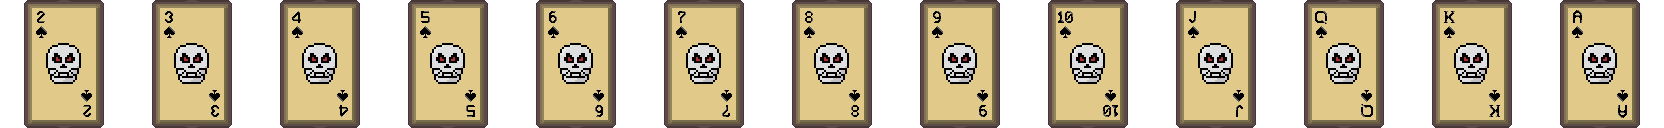
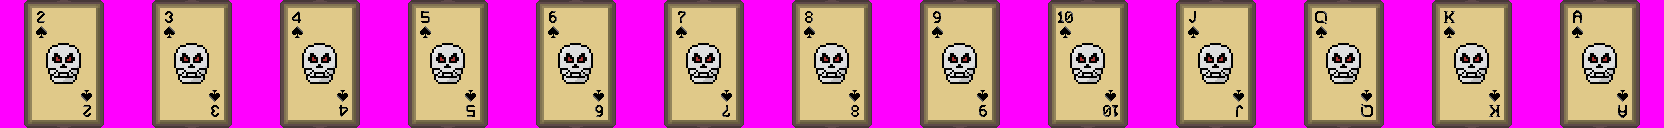
dodano zmiany

diff --git a/src/states/game_state.py b/src/states/game_state.py
@@ -1,7 +1,6 @@
 import pygame
 import src.config as c
 from src.classes.deck import Deck
-from src.classes.card import Card
 
 class GameState:
     def __init__(self, game):
@@ -10,52 +9,62 @@ class GameState:
         self.player_hp = 20
         self.deck = Deck(self.game.assets)
         self.deck.shuffle()
-        self.run_count = 2
-        self._can_run()
+        self.can_run = True
+        self.deck_rect = pygame.Rect(c.deck_pos_x, c.pos_y, int(c.CARD_WIDTH * c.SCALE), int(c.CARD_HEIGHT * c.SCALE))
+        
         self.room_cards = []
-        self.room_cards_slots = [(c.pos_x + c.CARD_WIDTH, c.pos_y), (c.pos_x + c.gap + c.CARD_WIDTH, c.pos_y), (c.pos_x + (c.gap * 2) + c.CARD_WIDTH, c.pos_y), (c.pos_x + (c.gap * 3) + c.CARD_WIDTH, c.pos_y)]
+        self.room_cards_slots = [(c.pos_x, c.pos_y), (c.pos_x + c.gap, c.pos_y), (c.pos_x + (c.gap * 2), c.pos_y), (c.pos_x + (c.gap * 3), c.pos_y)]
         self._refill_room()
 
     def _refill_room(self):
+        self.can_run = True
 
         cards_needed = 4 - len(self.room_cards)
-        
+
+        if cards_needed > 0 and self.deck.hml() > 0:
+            self.draw_anim_timer = 1 * c.FPS
+
         for i in range(cards_needed):
             if self.deck.hml() > 0:
                 new_card = self.deck.draw() 
                 
                 slot_index = len(self.room_cards) 
                 target_x, target_y = self.room_cards_slots[slot_index]
-                
-                new_card.rect = pygame.Rect(target_x, target_y, c.CARD_WIDTH, c.CARD_HEIGHT)
+
+                start_x = self.deck_rect.x
+                start_y = self.deck_rect.y
+
+                new_card.rect = pygame.Rect(start_x, start_y, int(c.CARD_WIDTH * c.SCALE), int(c.CARD_HEIGHT * c.SCALE))
+
+                new_card.move_to(target_x, target_y)
                 
                 self.room_cards.append(new_card)
             else:
                 break
 
-    def _can_run(self):
-        if self.run_count >= 2:
-            self.can_run = True
-        else:
-            self.can_run = False
-        if self.deck.draw():
-            self.run_count += 1
         
     def handle_events(self, event):
         if event.type == pygame.KEYDOWN and not self.game.game_over:
             if event.key == pygame.K_ESCAPE:
                 self.game.current_state = "MENU"
             if event.key == pygame.K_0:                                                                     #loophole
-                self.run_count += 1    
+                self.can_run = True 
         if event.type == pygame.MOUSEBUTTONDOWN:
             if self.run_btn_rect.collidepoint(self.mouse_pos) and self.can_run:
+                self.deck.run(self.room_cards)
+                self._refill_room()
                 self.can_run = False
-                self.run_count = 0
             
 
     def update(self):
         self.mouse_pos = self.game.mouse_pos
-        self._can_run()
+
+        if self.draw_anim_timer > 0:
+            self.draw_anim_timer -= 1
+
+        for card in self.room_cards:
+            card.update()
+
 
     def draw(self, screen):
         bg_image = self.game.assets.get_frame("bg", self.player_hp)
@@ -64,6 +73,21 @@ class GameState:
         btn_frame_idx = 1 if self.can_run else 0
         btn_image = self.game.assets.get_frame("button", btn_frame_idx)
         screen.blit(btn_image, (0, 0))
+
+        if self.deck.hml() > 0:                                                             #start
+            if self.draw_anim_timer > 0:
+                 screen.blit(self.game.assets.get_frame("cbgh", 1), self.deck_rect)
+            else:
+                 screen.blit(self.game.assets.get_frame("cbg", 0), self.deck_rect)
+        else:
+            pass                                                                            #stop
+
+        for card in self.room_cards:
+            img = card.get_img()
+            screen.blit(img, card.rect)
+            # pygame.draw.rect(screen, (255, 0, 0), card, 1)                                test hitbox kart n
+
+        
 
     def handle_card_interactions(self):
         pass

diff --git a/src/classes/assetmanager.py b/src/classes/assetmanager.py
@@ -32,21 +32,21 @@ class AssetManager:
 
         for frame_index in range(2):
             image_button = button_sheet.get_image(frame_index, c.S_WIDTH, c.S_HEIGHT, (0,0,0))
-            image_cbg = cbg_sheet.get_image(frame_index, c.CARD_WIDTH, c.CARD_HEIGHT, (0,0,0))
-            image_cbgh = cbgh_sheet.get_image(frame_index, c.CARD_WIDTH, c.CARD_HEIGHT, (0,0,0))
+            image_cbg = cbg_sheet.get_image(frame_index, c.CARD_WIDTH, c.CARD_HEIGHT, (255,0,255))
+            image_cbgh = cbgh_sheet.get_image(frame_index, c.CARD_WIDTH, c.CARD_HEIGHT, (255,0,255))
             self.button_frames[frame_index] = image_button
             self.cbg_frames[frame_index] = image_cbg
             self.cbgh_frames[frame_index] = image_cbgh
 
         for frame_index in range(13):
-            image_pik = pik_sheet.get_image(frame_index, c.CARD_WIDTH, c.CARD_HEIGHT, (0,0,0))
-            image_trefl = trefl_sheet.get_image(frame_index, c.CARD_WIDTH, c.CARD_HEIGHT, (0,0,0))
+            image_pik = pik_sheet.get_image(frame_index, c.CARD_WIDTH, c.CARD_HEIGHT, (255,0,255))
+            image_trefl = trefl_sheet.get_image(frame_index, c.CARD_WIDTH, c.CARD_HEIGHT, (255,0,255))
             self.pik_frames[frame_index] = image_pik
             self.trefl_frames[frame_index] = image_trefl
 
         for frame_index in range(9):
-            image_kier = kier_sheet.get_image(frame_index, c.CARD_WIDTH, c.CARD_HEIGHT, (0,0,0))
-            image_karo = karo_sheet.get_image(frame_index, c.CARD_WIDTH, c.CARD_HEIGHT, (0,0,0))
+            image_kier = kier_sheet.get_image(frame_index, c.CARD_WIDTH, c.CARD_HEIGHT, (255,0,255))
+            image_karo = karo_sheet.get_image(frame_index, c.CARD_WIDTH, c.CARD_HEIGHT, (255,0,255))
             self.kier_frames[frame_index] = image_kier
             self.karo_frames[frame_index] = image_karo
             

diff --git a/src/classes/card.py b/src/classes/card.py
@@ -1,10 +1,13 @@
 import pygame
+import src.config as c
 
 class Card:
     def __init__(self, suit, value):
         self.suit = suit
         self.value = value
         self.rect = None
+        self.target_pos = None
+        self.speed = c.speed
     def set_img(self, img):
         self.img = img
     def get_img(self):
@@ -13,5 +16,25 @@ class Card:
         return self.suit
     def get_value(self):
         return self.value
-    def get_rect(self):
-        return self.img.get_rect()
+    def move_to(self, x, y):
+        self.target_pos = (x, y)
+    def update(self):
+        if self.rect and self.target_pos:
+            target_x, target_y = self.target_pos
+
+            dx = target_x - self.rect.x
+            dy = target_y - self.rect.y
+
+            if abs(dx) < self.speed and abs(dy) < self.speed:
+                self.rect.x = target_x
+                self.rect.y = target_y
+                self.target_pos = None
+            else:
+                move_x = self.speed if dx > 0 else -self.speed
+                move_y = self.speed if dy > 0 else -self.speed
+            
+                if abs(dx) < self.speed: move_x = 0
+                if abs(dy) < self.speed: move_y = 0
+                
+                self.rect.x += move_x
+                self.rect.y += move_y

diff --git a/src/config.py b/src/config.py
@@ -16,11 +16,15 @@ WIDTH = int(640 * SCALE)
 HEIGHT = int(360 * SCALE)
 FPS = 60
 
-CARD_WIDTH = 128 
-CARD_HEIGHT = 128 
+CARD_WIDTH = 128
+CARD_HEIGHT = 128
 S_WIDTH = 640
 S_HEIGHT = 360
 
-pos_x = int(192 * SCALE)
+pos_x = int(170 * SCALE)
 pos_y = int(32 * SCALE)
-gap = int(29 * SCALE)
+gap = int(106 * SCALE)
+deck_pos_x = int(24 * SCALE)
+bottom_pos_y = int(200 * SCALE)
+
+speed = 15
